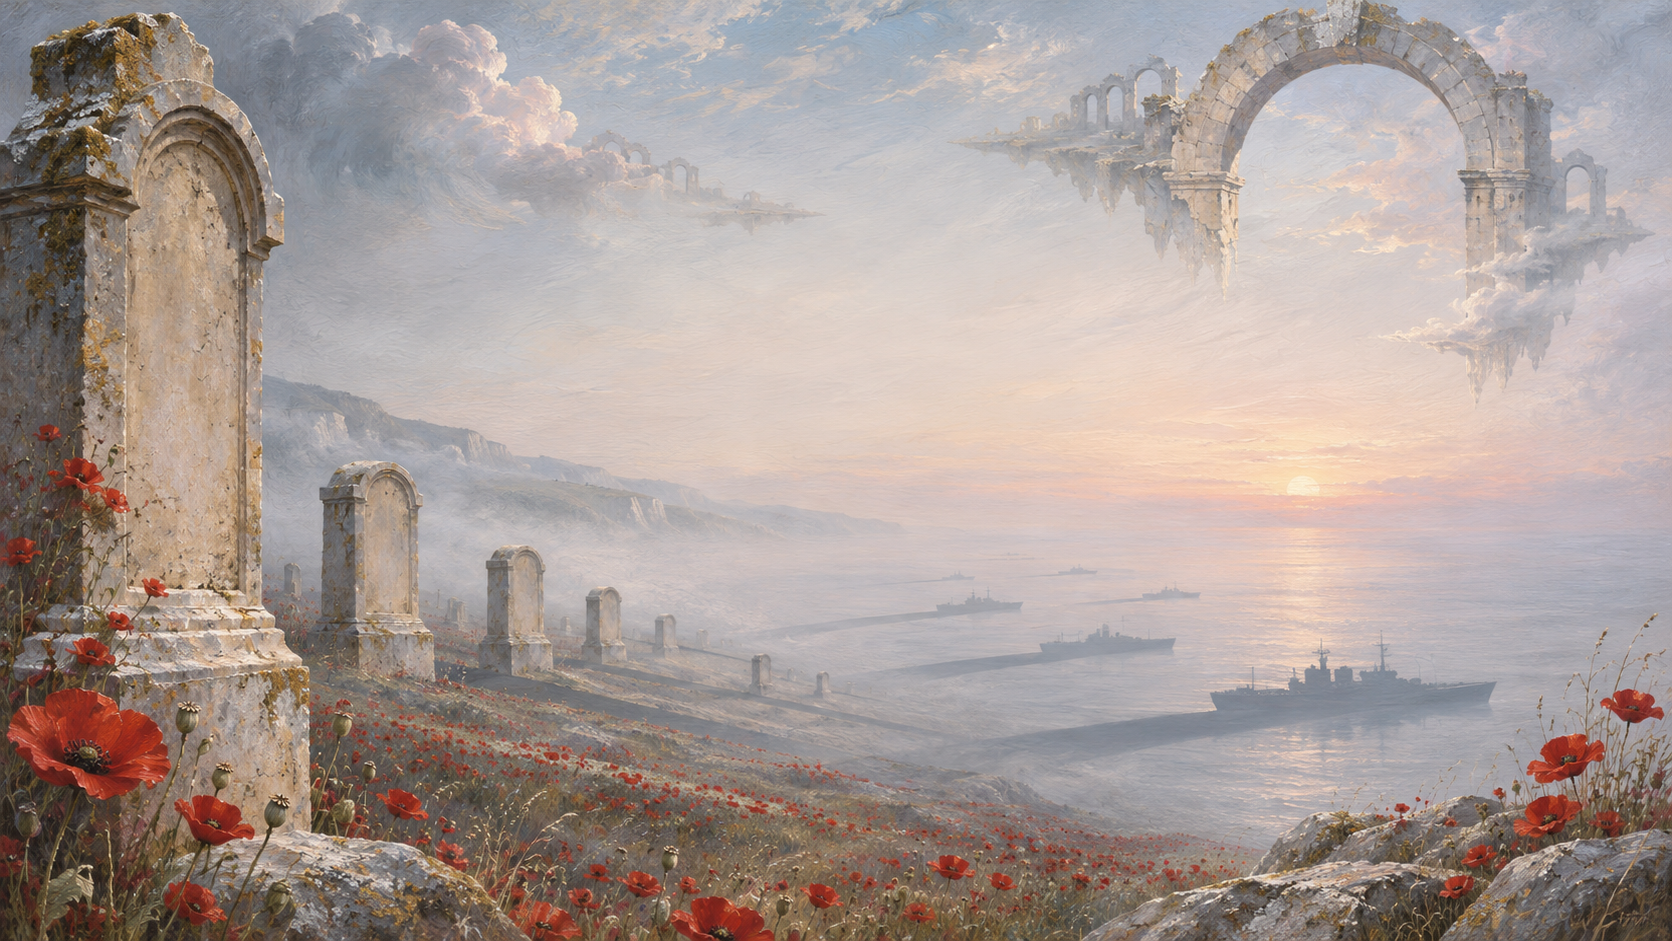
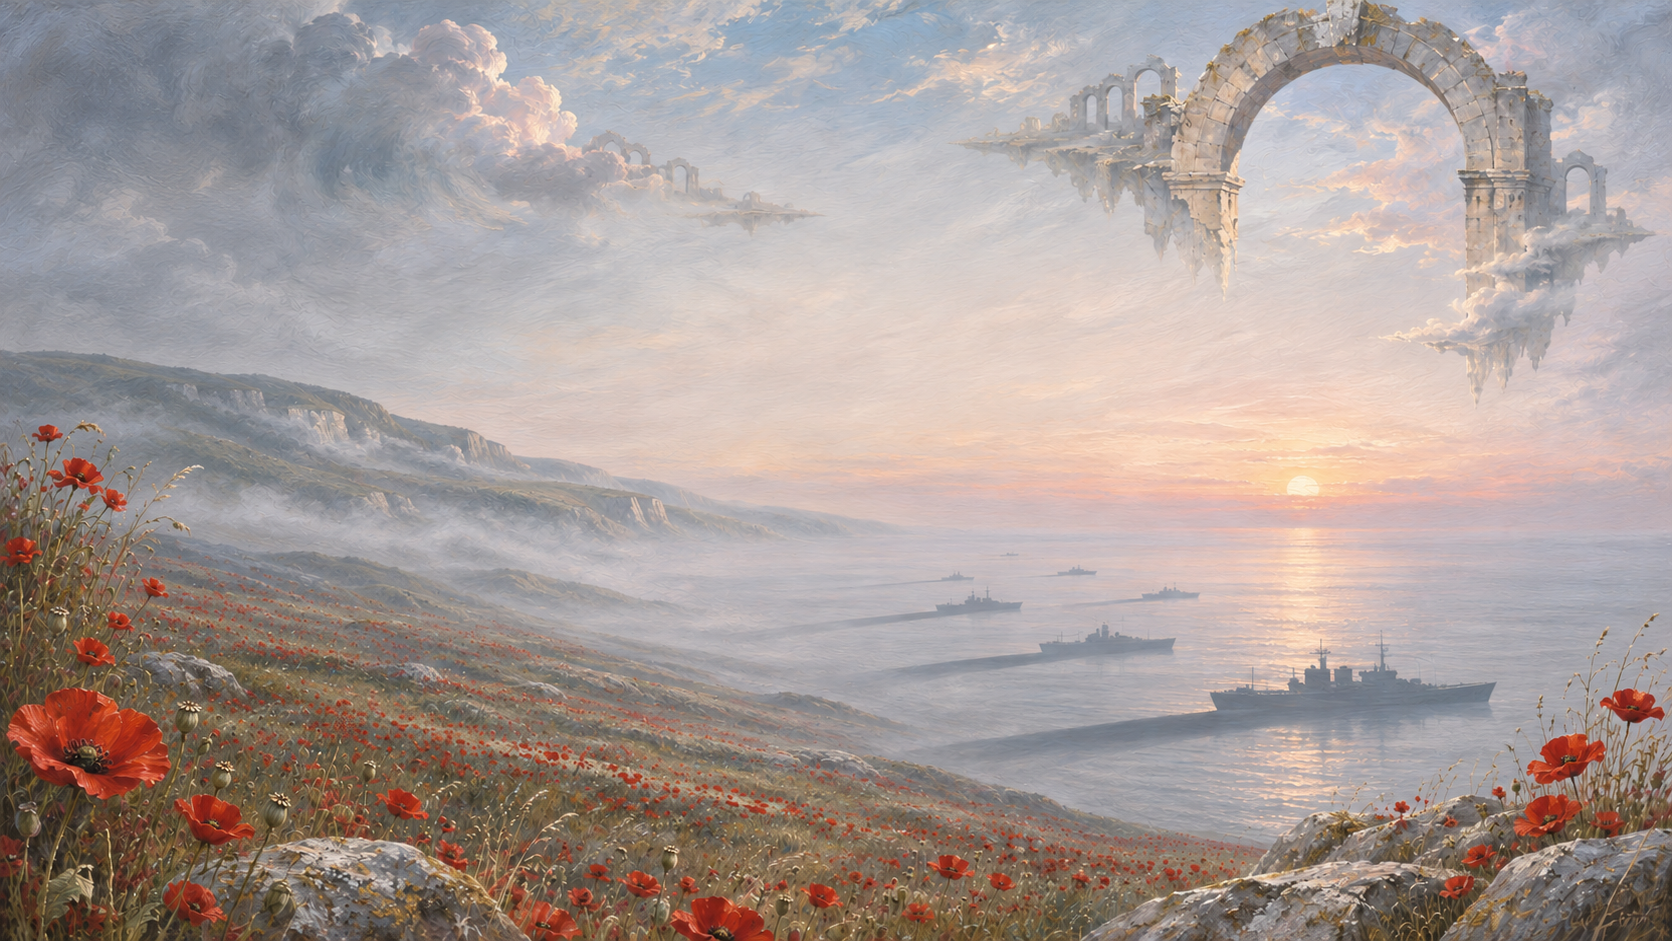
art: remove tombstones from military remembrance scene

Changed region(s): [[0.0, 0.0, 1.0, 1.0], [0.9952, 0.9862, 1.0, 1.0], [0.6842, 0.0925, 0.7153, 0.1233]]

diff --git a/README.md b/README.md
@@ -68,3 +68,7 @@ weathered empty stone memorials receding toward a misty sea, shadows becoming sh
 silhouettes, and a floating stone arch framing a pale dawn sky. Reflective mood,
 muted blue-grey and limestone with crimson accents, quiet central space for text;
 no combat, weapons, lettering, or flags. Created with the built-in image tool.
+
+Artwork edit (built-in image tool): remove all tombstones and their plinths, filling
+the exposed areas with poppy meadow, rocks, hillside and mist; preserve the floating
+arches, ships, dawn light, composition and oil-painting style.
